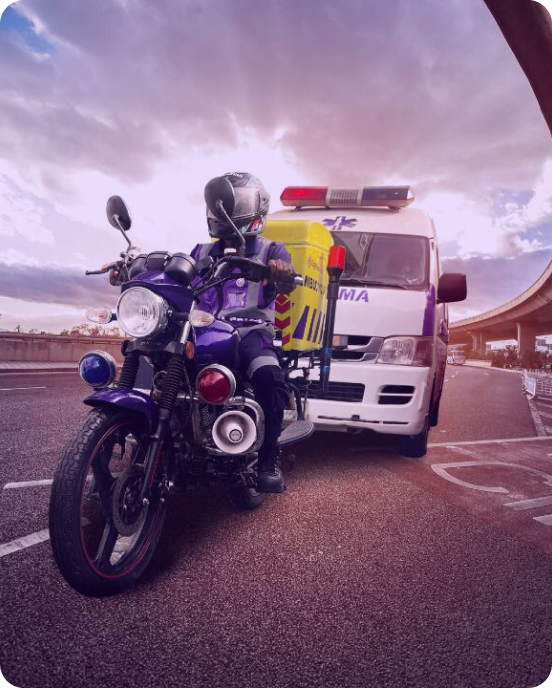
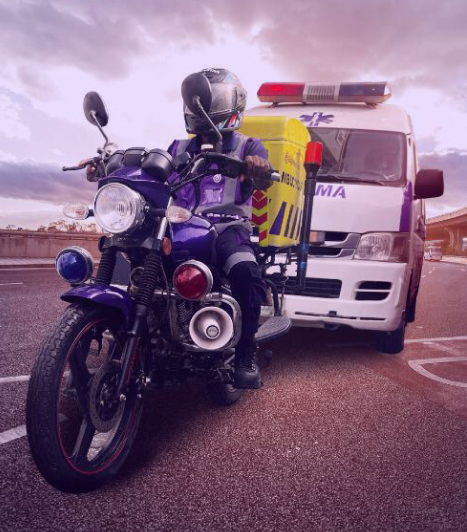
Reduce img height

diff --git a/src/Pages/userOnboarding/CreateAccount.jsx b/src/Pages/userOnboarding/CreateAccount.jsx
@@ -107,7 +107,7 @@ export default function CreateAccount() {
             <NavBar />
             <div className="md:h-full flex flex-col justify-center gap-6 md:gap-12 flex-col md:flex-row  md:w-[100%]  md:-px-auto p-[2rem]"> {/*items-center md:justify-center md:items-center* */}
                 <div className="md:h-full md:w-[40%] md:self-center">
-                    <img src={signup} alt="" className="object-fill hidden md:flex mx-auto" />
+                    <img src={signup} alt="" className="object-fill hidden md:flex mx-auto rounded-[1rem]" />
                 </div>
                 <div className="md:py-[4rem] md:px-[1rem] xl:px-[1rem] border-[#F4F2F5] md:w-[40%]  md:self-center">
                     <div className="flex flex-col items-center justify-center my-auto">
@@ -125,7 +125,7 @@ export default function CreateAccount() {
                         </div>
                     </div>
 
-                    <div className="divider-text my-3">
+                    <div className="divider-text my-1">
                         <span>OR</span>
                     </div>
 

diff --git a/src/Pages/userOnboarding/SignIn.jsx b/src/Pages/userOnboarding/SignIn.jsx
@@ -82,7 +82,7 @@ export default function SignIn() {
             <NavBar />
             <div className="h-full md:mt-1/2 flex gap-6 md:gap-12 flex-col md:flex-row md:justify-center md:items-center md:w-[100%]  md:-px-auto md:-py-auto p-[2rem]">
                 <div className="h-full md:w-[40%] md:self-center">
-                    <img src={signin} alt="" className="object-fill hidden md:flex mx-auto" />
+                    <img src={signin} alt="" className="object-fill hidden md:flex mx-auto rounded-[1rem]" />
                 </div>
                 <div className="md:py-[4rem] md:px-[1rem] xl:px-[1rem] border-[#F4F2F5] md:w-[40%]  md:self-center">
                     <div className="flex flex-col items-center justify-center my-[0.5rem]">
